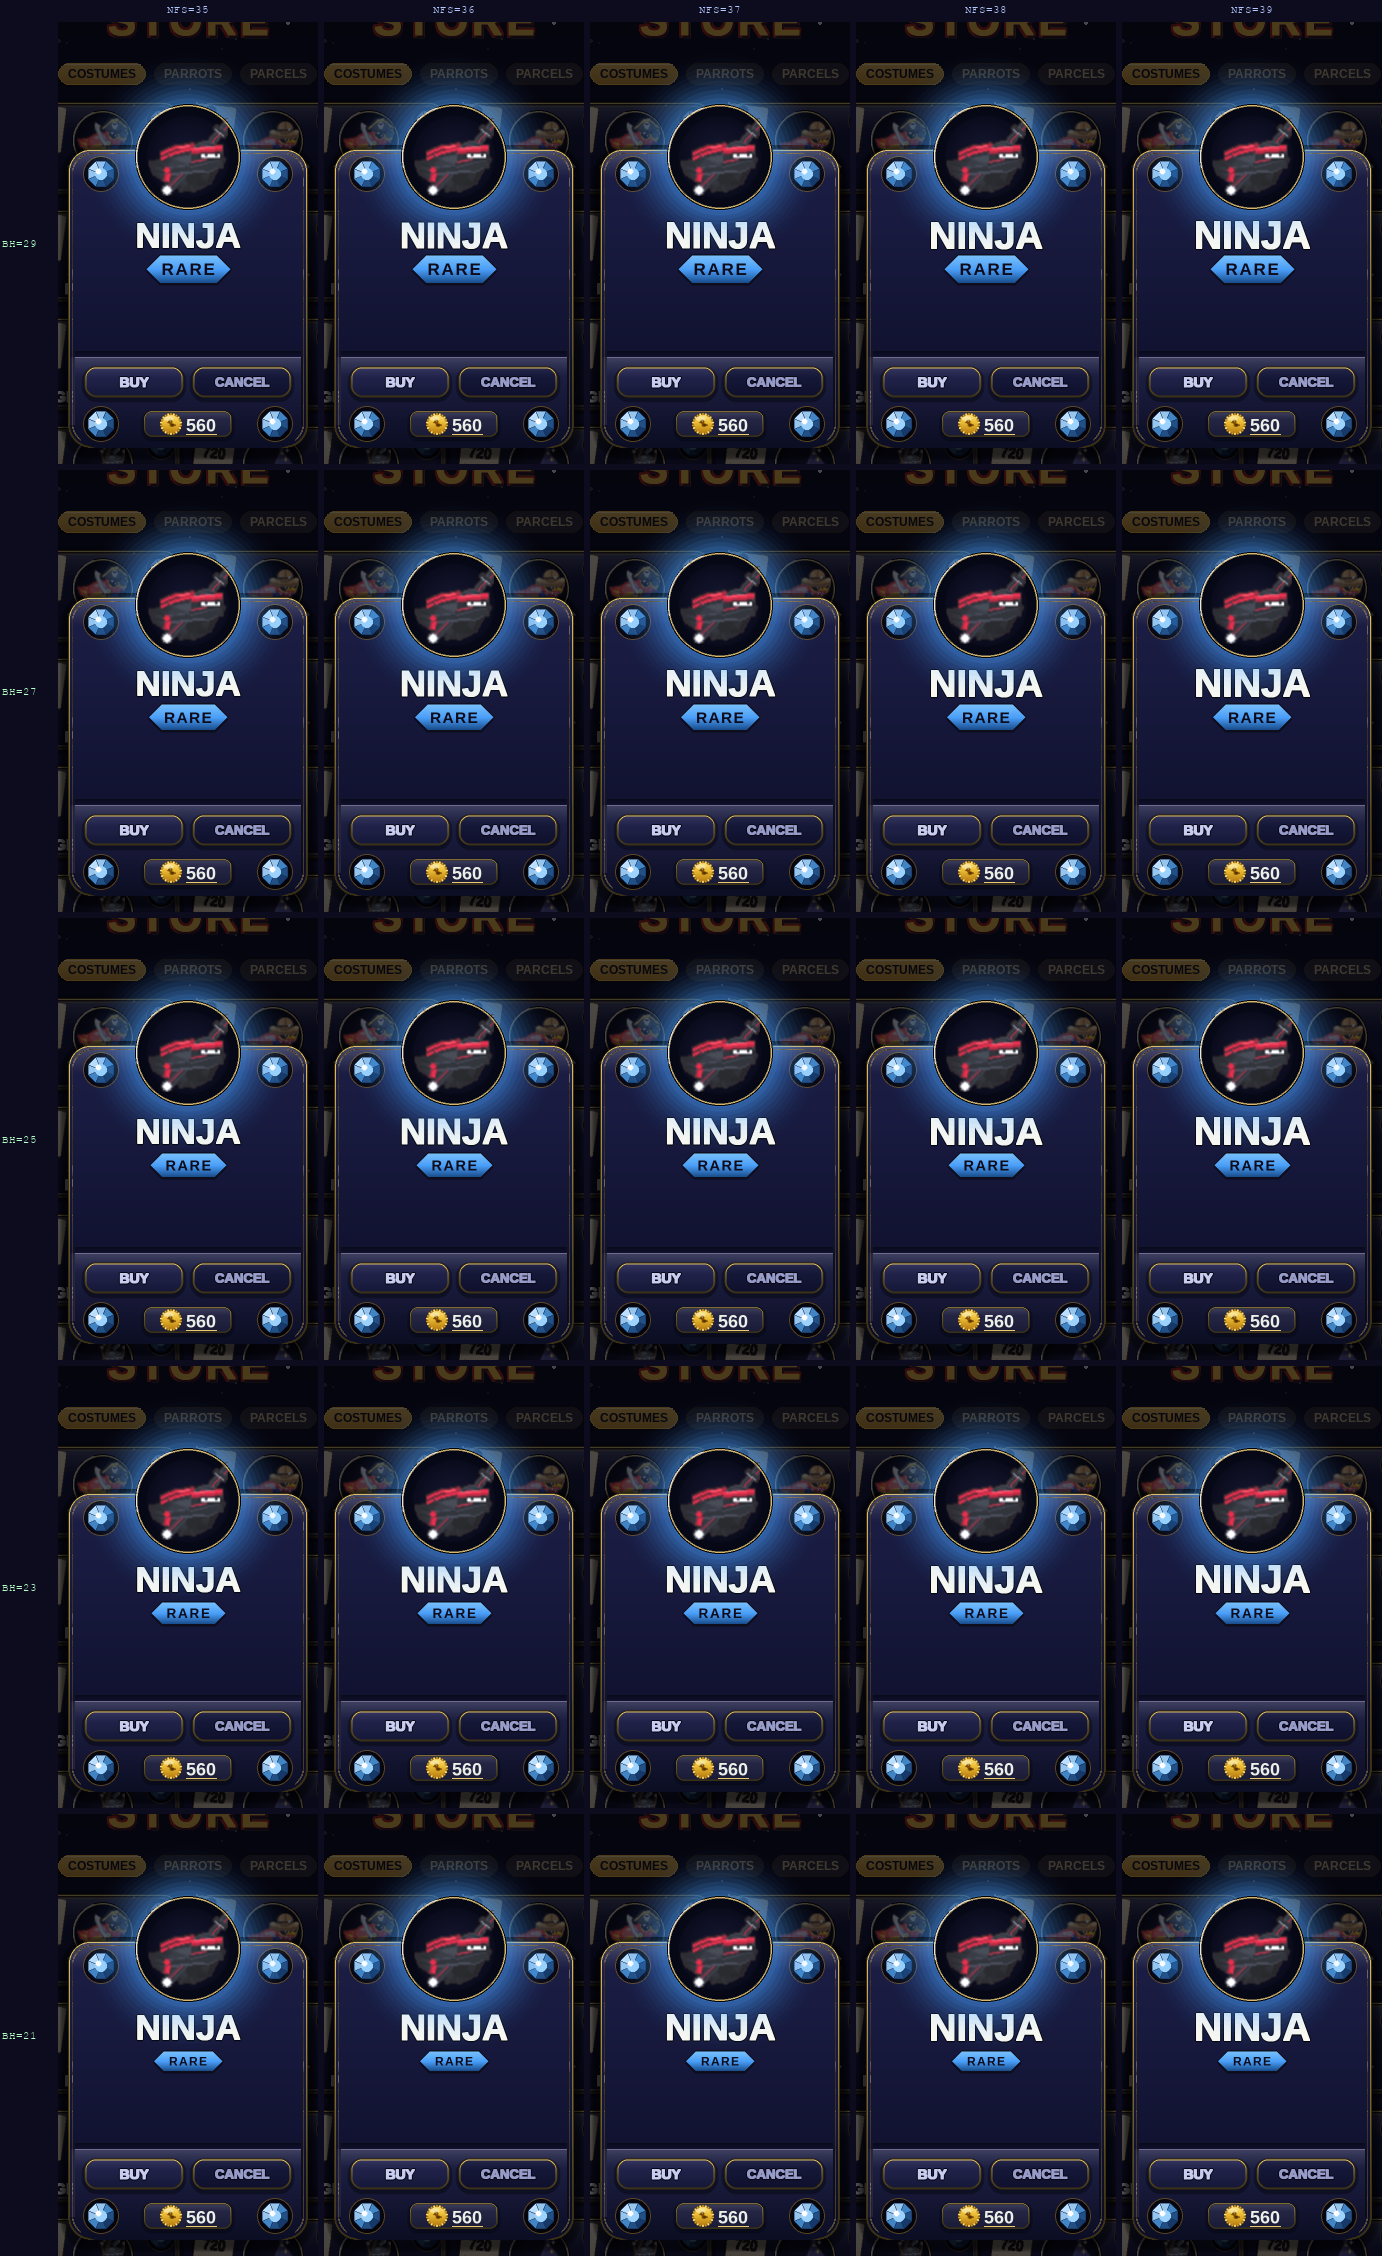
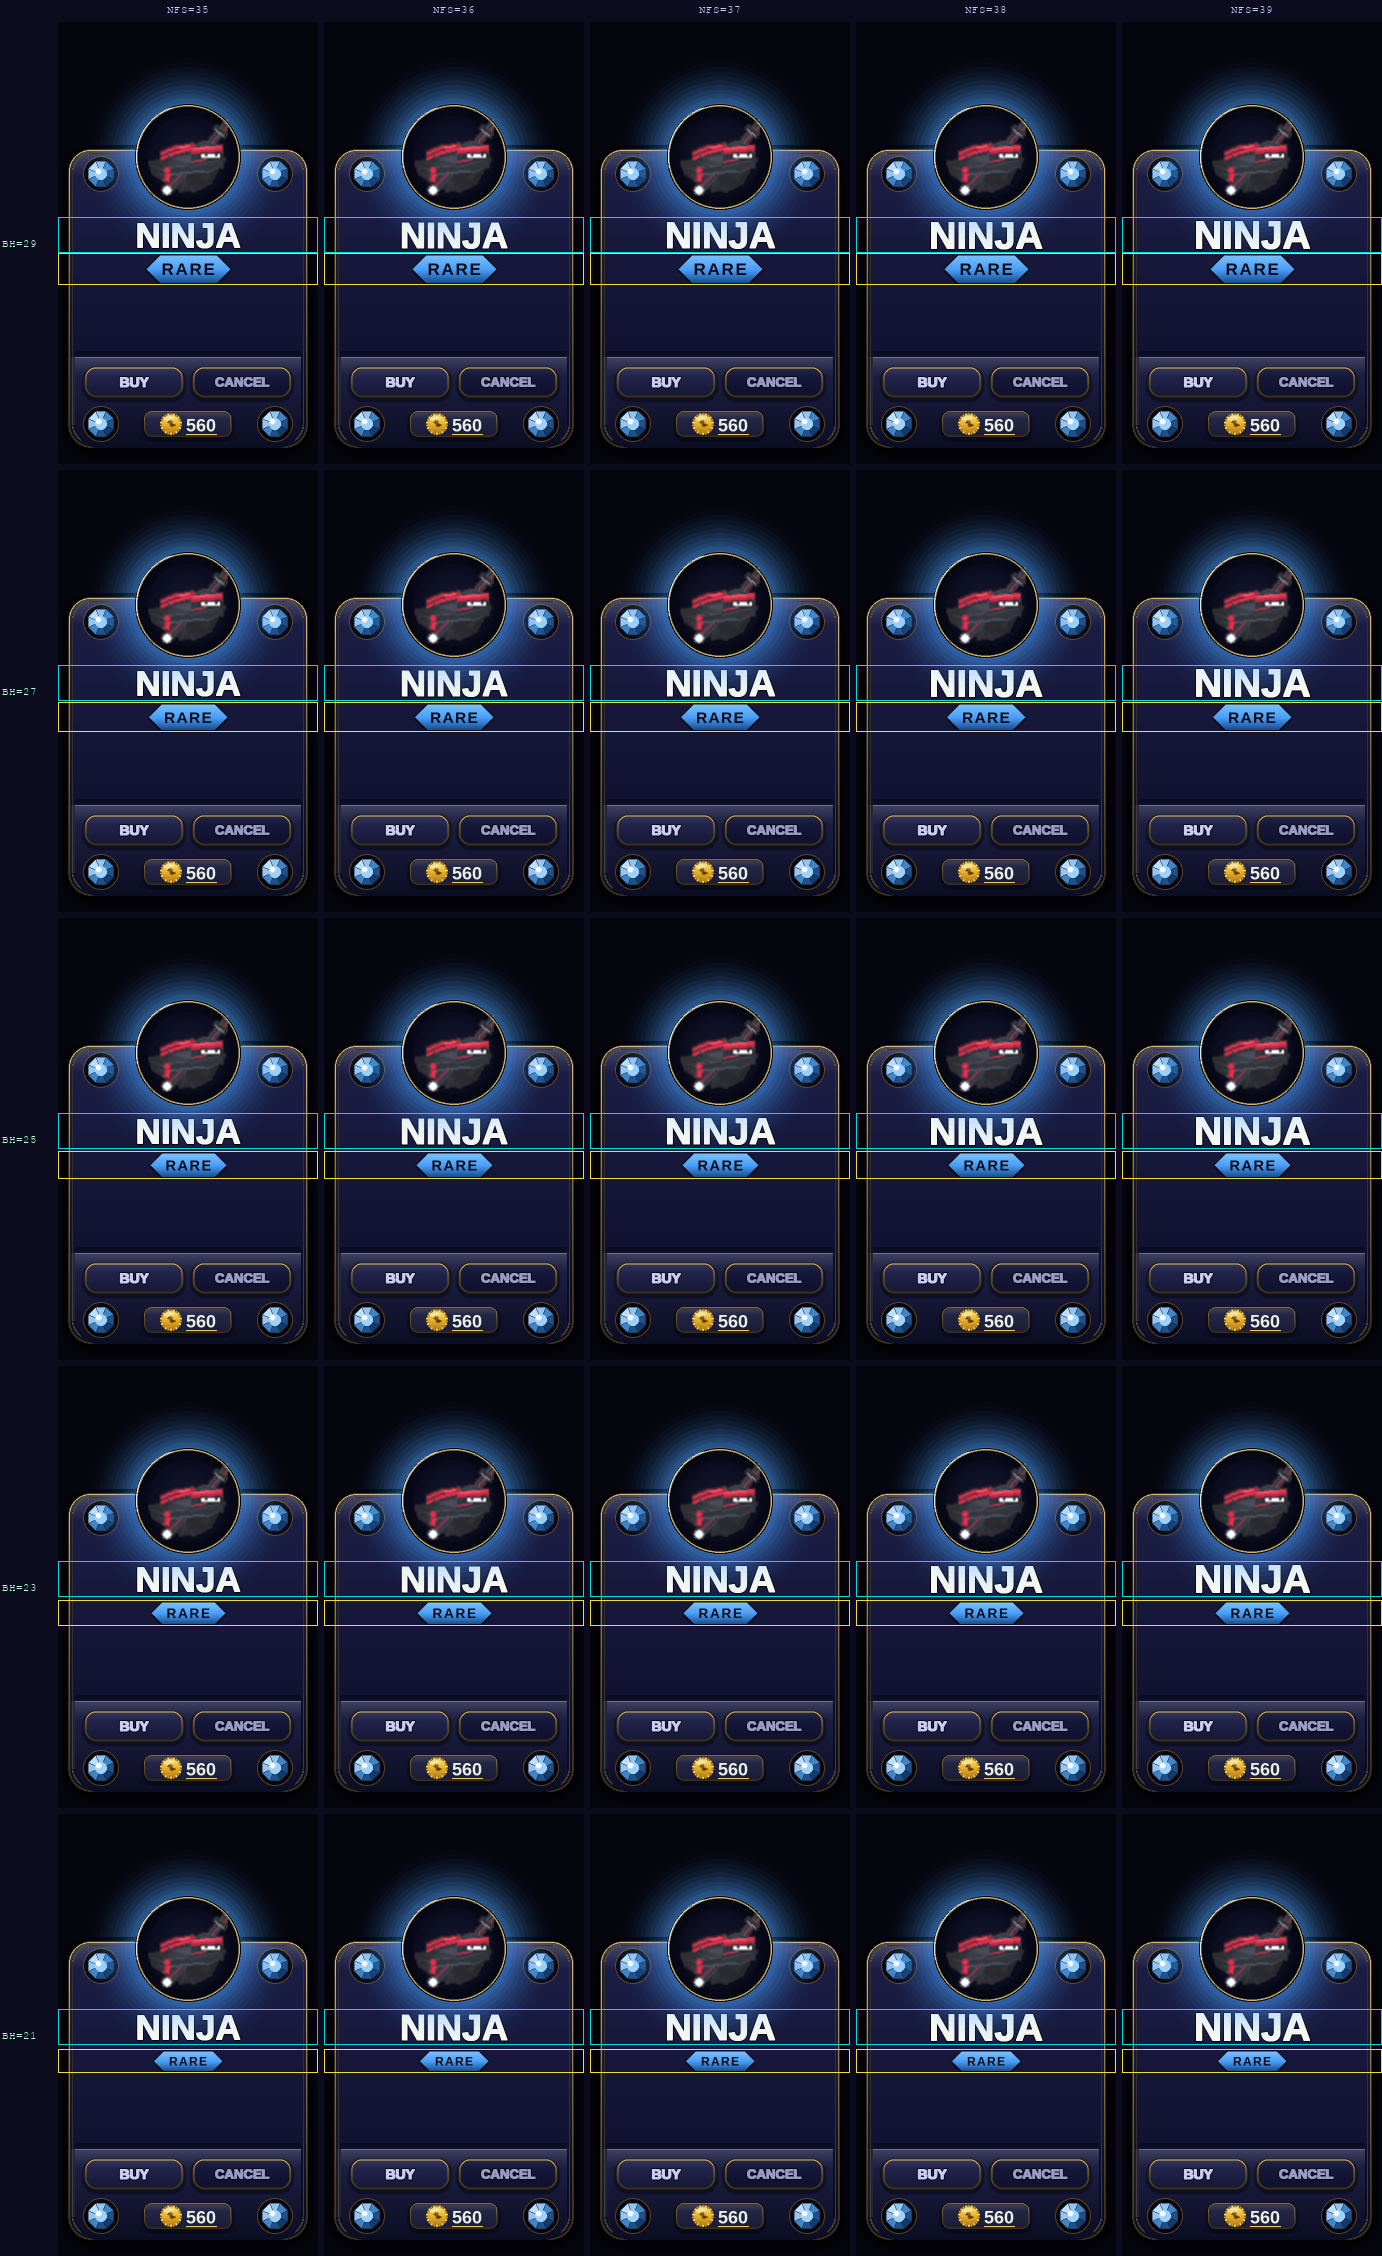
docs: regenerate 5×5 NAME_FS/BANNER_H comparison grid with clean background
Removes scene.render() noise; each cell now uses a plain dark fill so pixel
differences are purely from the constants being compared (1442–2273 diffs
across NAME_FS columns, 3174–3203 across BANNER_H rows). Adds cyan/yellow
annotation boxes to highlight name and banner areas. Uses skin_ninja to avoid
shrink-loop collapse.

Also adds agent 25-minute cap rule to CLAUDE.md.

diff --git a/CLAUDE.md b/CLAUDE.md
@@ -74,6 +74,10 @@ docs/                         Screenshots + asset exploration galleries
 analytics/                    Streamlit + Supabase telemetry dashboard
 ```
 
+## Agent rules
+
+- **25-minute agent cap.** Never let a background agent run longer than 25 minutes. If you launch a background agent, schedule a `send_later` wakeup at 25 minutes; when it fires, call `TaskStop` on any still-running agent and continue the work yourself with direct Bash/tool calls. Prefer direct Bash for diagnostic work — agents add overhead and can stall silently.
+
 ## Hard rules
 
 These are project identity. Don't violate without explicit user OK.
